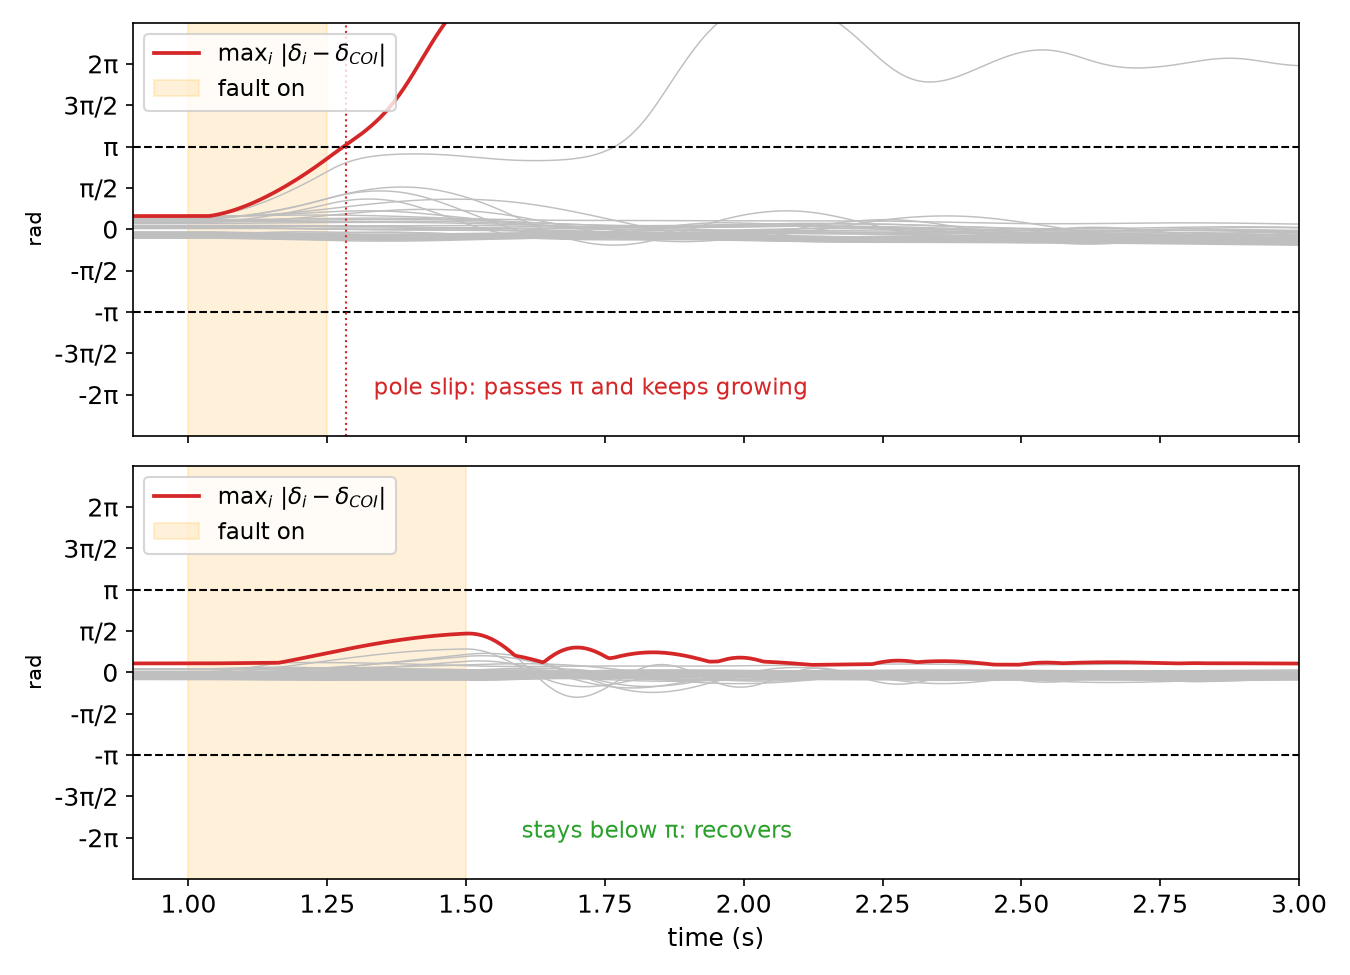
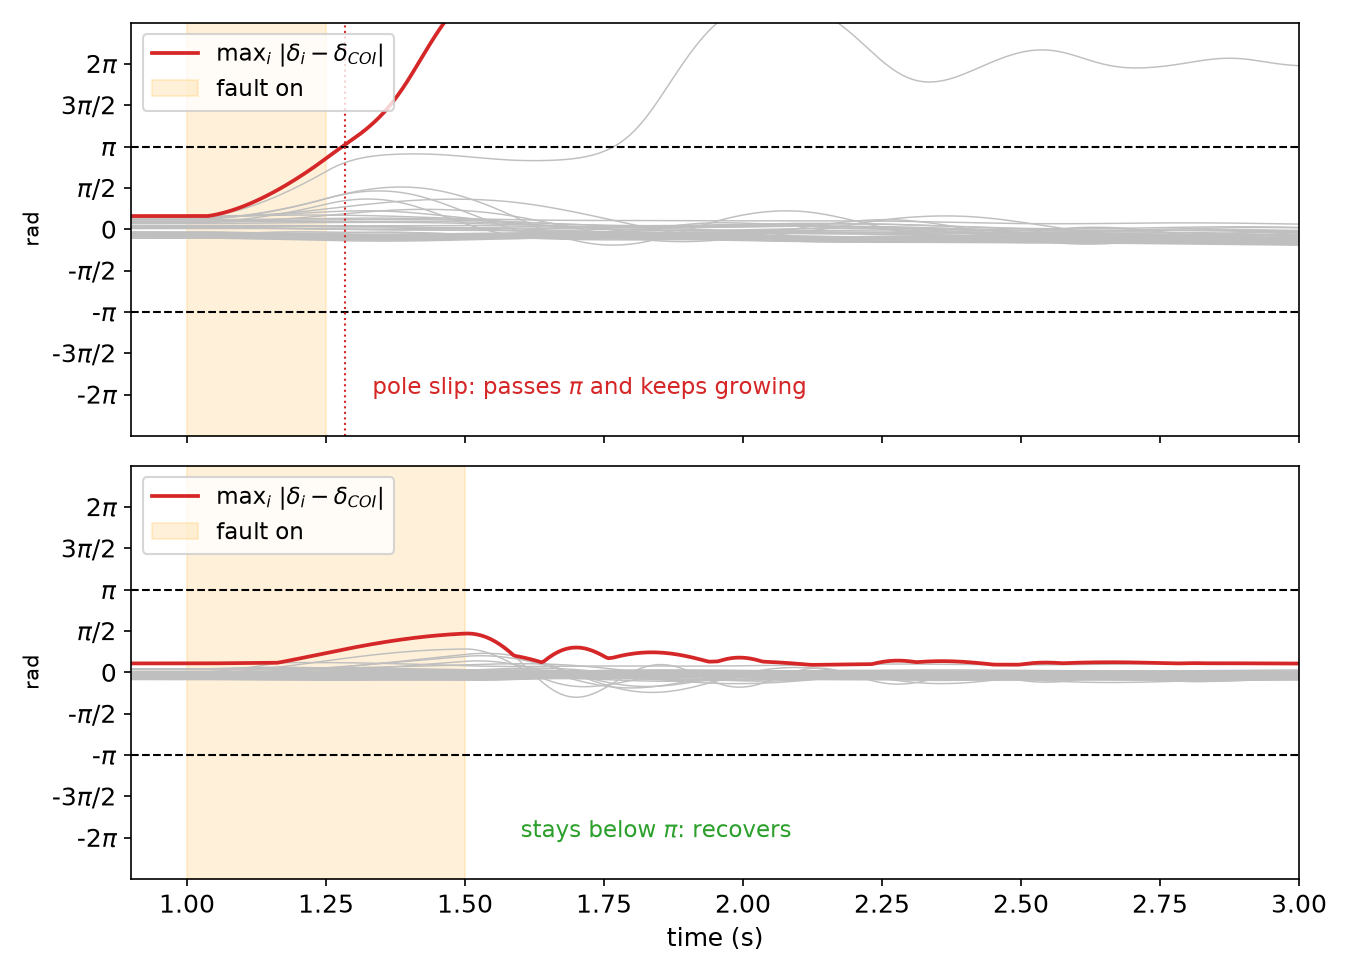
new stable-unstable figure

diff --git a/uq-usecase/scripts/plot_delta_unstable_vs_censored.py b/uq-usecase/scripts/plot_delta_unstable_vs_censored.py
@@ -46,12 +46,12 @@ def fmt_pi(v, _):
     if m == 0:
         return "0"
     if m == 2:
-        return f"{sign}π"
+        return f"{sign}$\\pi$"
     if m == 4:
-        return f"{sign}2π"
+        return f"{sign}$2\\pi$"
     if m == 1:
-        return f"{sign}π/2"
-    return f"{sign}{m}π/2"
+        return f"{sign}$\\pi/2$"
+    return f"{sign}${m}\\pi/2$"
 
 
 def main():
@@ -83,10 +83,10 @@ def main():
         if (mx > PI).any():
             cross = t[np.argmax(mx > PI)]
             ax.axvline(cross, color="tab:red", ls=":", lw=1)
-            ax.text(cross + 0.05, -2.0 * PI, "pole slip: passes π and keeps growing",
+            ax.text(cross + 0.05, -2.0 * PI, "pole slip: passes $\\pi$ and keeps growing",
                     color="tab:red", fontsize=11)
         else:
-            ax.text(1.6, -2.0 * PI, "stays below π: recovers", color="tab:green", fontsize=11)
+            ax.text(1.6, -2.0 * PI, "stays below $\\pi$: recovers", color="tab:green", fontsize=11)
 
     axes[1].set_xlabel("time (s)", fontsize=12)
     fig.tight_layout()

diff --git a/uq-usecase/work-notes/dc_campaign_pipeline.md b/uq-usecase/work-notes/dc_campaign_pipeline.md
@@ -123,7 +123,7 @@ Do **not** export it globally: that makes Julia load the wrong SuiteSparse.
 | `scripts/failure_audit.py` | 111 | Tally of `solve_failed` by stage and reason, and of `sim_failed` by `sim_rc` and class (IDACalcIC vs IDASolve, read from scratch `sim.log`). `python failure_audit.py <campaign> [--ref <campaign>] [--out <file>]`; `--ref` splits the sim-failed overlap. Issue doc §10.11 |
 | `scripts/dispatch_margin.py` | 63 | Committed thermal PMAX minus `net_mw` per dispatch (net_mw includes the datacenter MW), to test DC OPF infeasibility. `python dispatch_margin.py <campaign>` |
 | `scripts/dispatch_pf_probe.py` | 82 | Solves four `solve_failed` operating points from `faultscreen1` with Q limits off and on, logging each Julia batch pass. Writes only to scratch `dispatch_probe/`. `python dispatch_pf_probe.py` |
-| `scripts/plot_delta_unstable_vs_censored.py` | 97 | Report Figure 5.1: rotor-angle deviation from COI (`δᵢ − δ_COI`, rad, π ticks) for one unstable and one censored replay, same time axis. Inputs are replay folders with `case.json`, `solver.json` and `replay.csv`; fault times come from `solver.json`. `python plot_delta_unstable_vs_censored.py <unstable_dir> <censored_dir> --out <png>`. Current inputs: `/scratch/isatkaus/dc_delta_replay/base` (hour 4674, 0.25 s fault) and `…/censored` (hour 1252, 0.5 s fault); output `work-notes/figures/delta_unstable_vs_censored.png` |
+| `scripts/plot_delta_unstable_vs_censored.py` | 97 | Report Figure 5.1: rotor-angle deviation from COI (`$\delta_i - \delta_{COI}$`, rad, $\pi$ ticks) for one unstable and one censored replay, same time axis. Inputs are replay folders with `case.json`, `solver.json` and `replay.csv`; fault times come from `solver.json`. `python plot_delta_unstable_vs_censored.py <unstable_dir> <censored_dir> --out <png>`. Current inputs: `/scratch/isatkaus/dc_delta_replay/base` (hour 4674, 0.25 s fault) and `…/censored` (hour 1252, 0.5 s fault); output `work-notes/figures/delta_unstable_vs_censored.png` |
 | `scripts/fold_check_h1879.py` | 72 | Checks h1879 sim-failed rows against the fixed-state fold sets (`ida_zoom/fixed_state/alpha_sweep.csv`, IDACalcIC at 200 MW). Assumes the sweep used the same datacenter bus (not checked). `python fold_check_h1879.py` |
 | `scripts/check_docs.py` | — | validates work-notes tables, fences, anchors, links |
 

diff --git a/uq-usecase/work-notes/test_figs.md b/uq-usecase/work-notes/test_figs.md
@@ -4,6 +4,6 @@
 
 ![Rotor-angle deviation from COI for an unstable and a censored aleatoric-1 sample](test_figs/delta_unstable_vs_censored.png)
 
-*Figure 1. Rotor-angle deviation from COI for one unstable sample (top) and one censored sample (bottom), both aleatoric-1 baseline (no datacenter), on a shared time axis. Orange: fault on (0.25 s top, 0.5 s bottom). Top: the red trace passes π (dotted line), a pole slip, and keeps growing, so the machine loses synchronism. Bottom: the red trace peaks at 0.47π and never reaches π, so the system recovers within the 10 s run. Grey: each machine's δᵢ − δ_COI. Red: maximum over machines of |δᵢ − δ_COI| (the machine can change). Dashed: ±π (±180°), the pole-slip threshold.*
+*Figure 1. Rotor-angle deviation from COI for one unstable sample (top) and one censored sample (bottom), both aleatoric-1 baseline (no datacenter), on a shared time axis. Orange: fault on (0.25 s top, 0.5 s bottom). Top: the red trace passes $\pi$ (dotted line), a pole slip, and keeps growing, so the machine loses synchronism. Bottom: the red trace peaks at $0.47\pi$ and never reaches $\pi$, so the system recovers within the 10 s run. Grey: each machine's $\delta_i - \delta_{COI}$. Red: maximum over machines of $|\delta_i - \delta_{COI}|$ (the machine can change). Dashed: $\pm\pi$, the pole-slip threshold.*
 
 Verification: both panels are replays of the stored `case.json` and `solver.json` with the campaign's DynamicSimulation runner. The unstable replay matches the stored 0.1 s series to 5.95e-8 rad. The censored replay has no stored series to compare against.
